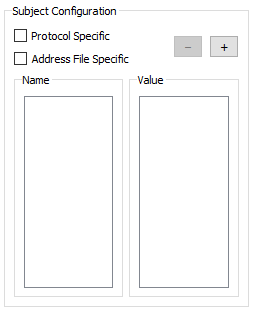
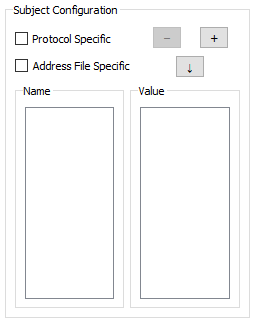
Implemented in-session constant adjustment with the SubjectConfigWidget

Changed region(s): [[0.0, 0.0, 0.9961, 0.9714]]

diff --git a/pybehave/Events/SubjectConfigWidget.py b/pybehave/Events/SubjectConfigWidget.py
@@ -2,7 +2,7 @@ import importlib
 import os
 
 from PyQt5 import QtCore
-from PyQt5.QtCore import QSettings, QTimer, pyqtSlot
+from PyQt5.QtCore import QSettings, QTimer, pyqtSlot, Qt
 from PyQt5.QtWidgets import QGroupBox, QHBoxLayout, QVBoxLayout, QPushButton, QWidget, QCheckBox, \
     QListWidget, QListWidgetItem, QComboBox
 
@@ -24,8 +24,10 @@ class SubjectConfigWidget(EventWidget):
         self.layout.addWidget(self.widget)
         self.setLayout(self.layout)
         self.config_layout = QVBoxLayout(self.widget)
+        self.buttons_layout = QVBoxLayout(self.widget)
         self.controls_layout = QHBoxLayout(self.widget)
         self.specific_layout = QVBoxLayout(self.widget)
+        self.top_layout = QHBoxLayout(self.widget)
         self.protocol_specific = QCheckBox("Protocol Specific")
         self.protocol_specific.stateChanged.connect(lambda _: self.load_keys())
         self.address_specific = QCheckBox("Address File Specific")
@@ -41,10 +43,17 @@ class SubjectConfigWidget(EventWidget):
         self.add_button.setText("+")
         self.add_button.setFixedWidth(30)
         self.add_button.clicked.connect(self.add_constant)
-        self.controls_layout.addLayout(self.specific_layout)
         self.controls_layout.addWidget(self.remove_button)
         self.controls_layout.addWidget(self.add_button)
-        self.config_layout.addLayout(self.controls_layout)
+        self.buttons_layout.addLayout(self.controls_layout)
+        self.save_button = QPushButton()
+        self.save_button.setText("↓")
+        self.save_button.setFixedWidth(30)
+        self.save_button.clicked.connect(self.save_values)
+        self.buttons_layout.addWidget(self.save_button, alignment=Qt.AlignHCenter)
+        self.top_layout.addLayout(self.specific_layout)
+        self.top_layout.addLayout(self.buttons_layout)
+        self.config_layout.addLayout(self.top_layout)
         constants_name_box = QGroupBox('Name')
         constants_name_layout = QVBoxLayout(self.widget)
         self.constants_name_list = QListWidget()
@@ -179,11 +188,14 @@ class SubjectConfigWidget(EventWidget):
     def on_commit_value(self):
         index = self.constants_value_list.currentRow()
         if len(self.constants_value_list.currentItem().text()) > 0:
-            self.settings.setValue(self.combos[index].currentText(), self.constants_value_list.currentItem().text())
             if len(self.constants_value_list.currentItem().text()) > 0:
                 self.cw.workstation.mainq.send_bytes(
                     self.cw.workstation.encoder.encode(PybEvents.ConstantsUpdateEvent(int(self.cw.chamber_id.text()) - 1,
                                                        {self.combos[index].currentText(): self.constants_value_list.currentItem().text()})))
+
+    def save_values(self):
+        for i in range(len(self.combos)):
+            self.settings.setValue(self.combos[i].currentText(), self.constants_value_list.item(i).text())
 
     def remove_option(self, option, index):
         for i, combo in enumerate(self.combos):

diff --git a/pybehave/Tasks/TaskProcess.py b/pybehave/Tasks/TaskProcess.py
@@ -263,7 +263,11 @@ class TaskProcess(Process):
         for key in event.constants:
             try:
                 value = eval(event.constants[key])
-                task.initial_constants[key] = copy.deepcopy(task.__getattribute__(key))
+                if key not in task.initial_constants:
+                    task.initial_constants[key] = copy.deepcopy(task.__getattribute__(key))
+                if value != task.__getattribute__(key) and task.started:
+                    new_event = PybEvents.ConstantUpdateEvent(task.metadata["chamber"], key, value)
+                    self.tp_q.append(new_event)
                 task.__setattr__(key, value)
             except:
                 pass
@@ -271,6 +275,9 @@ class TaskProcess(Process):
     def remove_constant(self, event: PybEvents.ConstantRemoveEvent):
         task = self.tasks[event.chamber]
         if event.constant in task.initial_constants:
+            if task.initial_constants[event.constant] != task.__getattribute__(event.constant) and task.started:
+                new_event = PybEvents.ConstantUpdateEvent(task.metadata["chamber"], event.constant, task.initial_constants[event.constant])
+                self.tp_q.append(new_event)
             task.__setattr__(event.constant, task.initial_constants[event.constant])
             del task.initial_constants[event.constant]
 

diff --git a/pybehave/Workstation/WorkstationGUI.py b/pybehave/Workstation/WorkstationGUI.py
@@ -39,7 +39,7 @@ class WorkstationGUI(QWidget):
         desktop = os.path.join(os.path.join(os.path.expanduser('~')), 'Desktop')
         settings = QSettings(desktop + "/py-behav/pybehave.ini", QSettings.IniFormat)
 
-        self.setWindowTitle("Pybehav")
+        self.setWindowTitle("Pybehave")
         self.setGeometry(0, 0, int(settings.value("pyqt/w")), int(settings.value("pyqt/h")))  # Position GUI
         main_layout = QVBoxLayout(self)
         main_layout.setContentsMargins(0, 0, 0, 0)  # Remove GUI margins so it is flush with screen
@@ -56,7 +56,7 @@ class WorkstationGUI(QWidget):
         menubar = QMenuBar()
         main_layout.addWidget(menubar)
         action_file = menubar.addMenu("File")  # File section of menu
-        add_task = action_file.addAction("Add Task")  # Action for adding a new task to a chamber
+        add_task = action_file.addAction("Add Chamber")  # Action for adding a new task to a chamber
         add_task.triggered.connect(self.task_dialog)  # Call task_dialog method when clicked
         settings = action_file.addAction("Settings")  # Action for adjusting py-behav settings
         settings.triggered.connect(self.settings_dialog)  # Call settings_dialog method when clicked

diff --git a/pybehave/Workstation/ChamberWidget.py b/pybehave/Workstation/ChamberWidget.py
@@ -308,7 +308,7 @@ class ChamberWidget(QGroupBox):
             menu = QMenu(self)
             save_config = menu.addAction("Save Configuration")  # Saves the current configuration of the chamber
             save_config.triggered.connect(self.save_configuration)
-            clear_chamber = menu.addAction("Clear Chamber")  # Alerts the Workstation to remove the Task
+            clear_chamber = menu.addAction("Remove Chamber")  # Alerts the Workstation to remove the Task
             clear_chamber.triggered.connect(lambda: self.wsg.workstation.remove_task(int(self.chamber_id.text()) - 1))
             edit_config = menu.addAction("Edit Configuration")  # Edits the Task configuration
             edit_config.triggered.connect(self.edit_configuration)

diff --git a/pybehave/Events/PybEvents.py b/pybehave/Events/PybEvents.py
@@ -192,6 +192,14 @@ class ConstantsUpdateEvent(TaskEvent):
     constants: Dict
 
 
+class ConstantUpdateEvent(Loggable):
+    name: str
+    value: Any
+
+    def format(self) -> LoggerEvent:
+        return LoggerEvent(self, self.name, self.value, self.timestamp)
+
+
 class ConstantRemoveEvent(TaskEvent):
     constant: str
 

diff --git a/docs/events.md b/docs/events.md
@@ -435,6 +435,33 @@ Event associated with the request to close the hardware/software connection with
 
 `comp_id` the ID of the component
 
+### Subject Configuration Events
+
+### ConstantsUpdateEvent
+
+    class ConstantsUpdateEvent(TaskEvent):
+        constants: Dict
+
+Event associated with sending information from the [SubjectConfigWidget](workstation.md#configuration-with-subjectconfigwidget) to the Task. This event may send multiple updates
+at once which will be split into constant-specific ConstantUpdateEvents for constants that actually had their values changed.
+
+### ConstantUpdateEvent
+
+    class ConstantUpdateEvent(Loggable):
+        name: str
+        value: Any
+
+Event associated with changes to constants from the SubjectConfigWidget that occur while the Task is running. One of these
+events will be logged for each constant that had a change in value after receiving a ConstantsUpdateEvent.
+
+### ConstantRemoveEvent
+
+    class ConstantRemoveEvent(TaskEvent):
+        constant: str
+
+Event associated with removing a constant from the SubjectConfigWidget. Will reset the value of the constant to what is listed
+in the task's `get_constants` method. If this occurs while a task is running, a ConstantUpdateEvent will be logged.
+
 ### EventLoggers
 
 The classes detailed below are contained in the `Events` package and associated with event logging.

diff --git a/docs/tutorials/task_no_hardware.md b/docs/tutorials/task_no_hardware.md
@@ -64,8 +64,12 @@ task's `get_constants` method).
 
 ![img.png](../img/constant_added.png)
 
+Values for a particular subject can be saved to load every time this subject runs the task by pressing the down-arrow button.
 Subject specific configuration can also be made to differ per Protocol or AddressFile but this feature is less useful for
-task testing and more for streamlining experiments.
+task testing and more for streamlining experiments. Constants can also be updated while a task is running and will log 
+ConstantUpdateEvents which can be analyzed offline or handled in Task code. Generally, this real-time feature is more intended
+for development than as an actual part of the task workflow since constants are meant to have fixed values. Instead, elements
+can be added to the GUI to update task variables if user input is required while the task is running.
 
 ## Simulating sources
 

diff --git a/docs/workstation.md b/docs/workstation.md
@@ -71,7 +71,10 @@ the Widget is intended for visualizing/displaying Task information or requires f
 
 SubjectConfigWidget is a special purpose Widget that is integrated into the pybehave core. This Widget allows for overriding the
 value of any Task constant for a particular subject. This is useful if constants need to be set on a per-subject basis. 
-Values can also be made specific to the address file or protocol the subject is running on.
+Values can also be made specific to the address file or protocol the subject is running on. Constants can also be updated while a task is running and will log 
+ConstantUpdateEvents which can be analyzed offline or handled in Task code.
+
+![subject_config.png](img/subject_config.png)
 
 ## Workstation Settings
 
